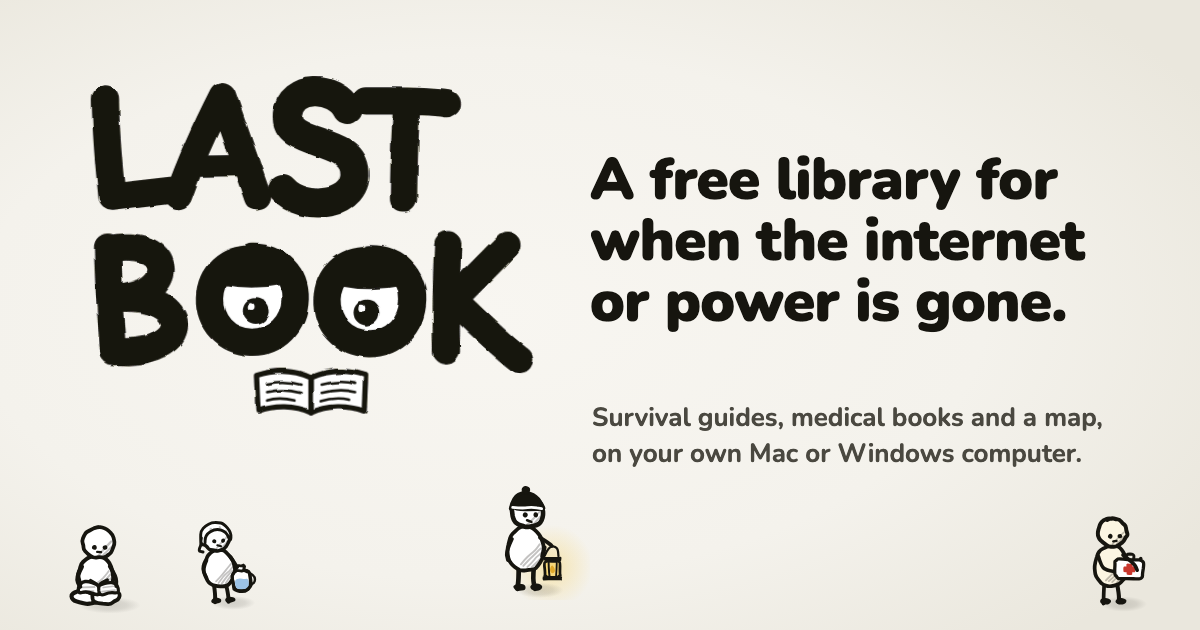
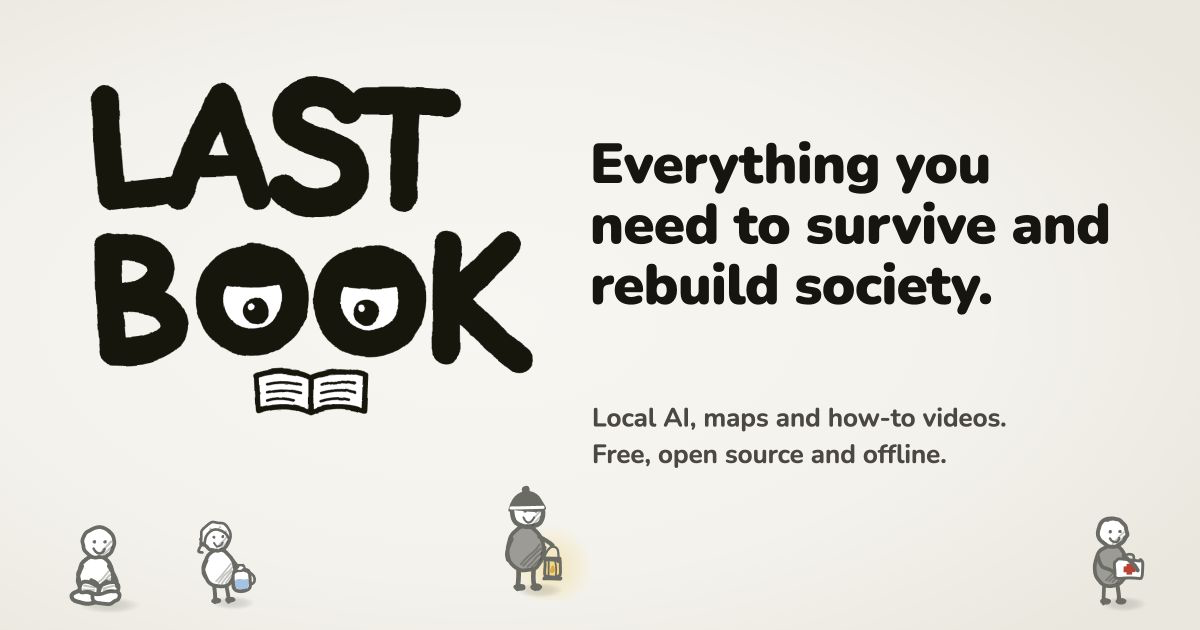
Update Lastbook share preview to the survival and rebuilding headline

diff --git a/website-next/index.html b/website-next/index.html
@@ -3,8 +3,8 @@
 <head>
 <meta charset="utf-8">
 <meta name="viewport" content="width=device-width, initial-scale=1">
-<title>Lastbook: a free survival library that works with no internet</title>
-<meta name="description" content="Survival and repair guides, medical books, encyclopedias, how-to videos and a map, on your own Mac, Windows or Linux computer. Free. Never uses the internet.">
+<title>Lastbook — Everything you need to survive and rebuild society.</title>
+<meta name="description" content="Free, open-source survival library with local AI, maps and how-to videos. Works offline after setup on Mac, Windows and Linux.">
 <meta name="color-scheme" content="light">
 <meta name="theme-color" content="#F4F2EC">
 <link rel="canonical" href="https://lastbook.org/">
@@ -14,14 +14,18 @@
 <link rel="manifest" href="/site.webmanifest">
 <meta property="og:type" content="website">
 <meta property="og:site_name" content="Lastbook">
-<meta property="og:title" content="Lastbook: a free survival library that works with no internet">
-<meta property="og:description" content="Survival and repair guides, medical books, encyclopedias, how-to videos and a map, on your own Mac, Windows or Linux computer. Free. Never uses the internet.">
+<meta property="og:title" content="Lastbook — Everything you need to survive and rebuild society.">
+<meta property="og:description" content="Free, open-source survival library with local AI, maps and how-to videos. Works offline after setup on Mac, Windows and Linux.">
 <meta property="og:url" content="https://lastbook.org/">
-<meta property="og:image" content="https://lastbook.org/og.png">
+<meta property="og:image" content="https://lastbook.org/og-survive-rebuild-v2.png">
 <meta property="og:image:width" content="1200">
 <meta property="og:image:height" content="630">
-<meta property="og:image:alt" content="Lastbook: a free library for when the internet or power is gone. A hand-drawn wordmark whose two O’s are eyes reading an open book, with small ink people around it.">
+<meta property="og:image:alt" content="Lastbook — Everything you need to survive and rebuild society. Local AI, maps and how-to videos. Free, open source and offline.">
 <meta name="twitter:card" content="summary_large_image">
+<meta name="twitter:title" content="Lastbook — Everything you need to survive and rebuild society.">
+<meta name="twitter:description" content="Free, open-source survival library with local AI, maps and how-to videos. Works offline after setup on Mac, Windows and Linux.">
+<meta name="twitter:image" content="https://lastbook.org/og-survive-rebuild-v2.png">
+<meta name="twitter:image:alt" content="Lastbook — Everything you need to survive and rebuild society.">
 <link rel="preload" href="/fonts/Nunito-Variable.woff2" as="font" type="font/woff2" crossorigin>
 <link rel="stylesheet" href="/style.css?v=fb73900236">
 <script src="/os.js?v=940e747a6e"></script>

diff --git a/website-next/library/index.html b/website-next/library/index.html
@@ -17,11 +17,15 @@
 <meta property="og:title" content="What’s in the library · Lastbook">
 <meta property="og:description" content="Compare the Small, Medium and All offline libraries, including documents, videos, encyclopedias and maps.">
 <meta property="og:url" content="https://lastbook.org/library/">
-<meta property="og:image" content="https://lastbook.org/og.png">
+<meta property="og:image" content="https://lastbook.org/og-survive-rebuild-v2.png">
 <meta property="og:image:width" content="1200">
 <meta property="og:image:height" content="630">
-<meta property="og:image:alt" content="Lastbook: a free library for when the internet or power is gone. A hand-drawn wordmark whose two O’s are eyes reading an open book, with small ink people around it.">
+<meta property="og:image:alt" content="Lastbook — Everything you need to survive and rebuild society. Local AI, maps and how-to videos. Free, open source and offline.">
 <meta name="twitter:card" content="summary_large_image">
+<meta name="twitter:title" content="What’s in the library · Lastbook">
+<meta name="twitter:description" content="Compare the Small, Medium and All offline libraries, including documents, videos, encyclopedias and maps.">
+<meta name="twitter:image" content="https://lastbook.org/og-survive-rebuild-v2.png">
+<meta name="twitter:image:alt" content="Lastbook — Everything you need to survive and rebuild society.">
 <link rel="preload" href="/fonts/Nunito-Variable.woff2" as="font" type="font/woff2" crossorigin>
 <link rel="stylesheet" href="/style.css?v=fb73900236">
 <script src="/os.js?v=940e747a6e"></script>

diff --git a/website-next/buying-guide/index.html b/website-next/buying-guide/index.html
@@ -17,11 +17,15 @@
 <meta property="og:title" content="Buying guide · Lastbook">
 <meta property="og:description" content="Specific gear for safe drinking water, bleeding control, backup power, weather alerts, shelter and sanitation.">
 <meta property="og:url" content="https://lastbook.org/buying-guide/">
-<meta property="og:image" content="https://lastbook.org/og.png">
+<meta property="og:image" content="https://lastbook.org/og-survive-rebuild-v2.png">
 <meta property="og:image:width" content="1200">
 <meta property="og:image:height" content="630">
-<meta property="og:image:alt" content="Lastbook: a free library for when the internet or power is gone. A hand-drawn wordmark whose two O’s are eyes reading an open book, with small ink people around it.">
+<meta property="og:image:alt" content="Lastbook — Everything you need to survive and rebuild society. Local AI, maps and how-to videos. Free, open source and offline.">
 <meta name="twitter:card" content="summary_large_image">
+<meta name="twitter:title" content="Buying guide · Lastbook">
+<meta name="twitter:description" content="Specific gear for safe drinking water, bleeding control, backup power, weather alerts, shelter and sanitation.">
+<meta name="twitter:image" content="https://lastbook.org/og-survive-rebuild-v2.png">
+<meta name="twitter:image:alt" content="Lastbook — Everything you need to survive and rebuild society.">
 <link rel="preload" href="/fonts/Nunito-Variable.woff2" as="font" type="font/woff2" crossorigin>
 <link rel="stylesheet" href="/style.css?v=d5c5a3e922">
 <script src="/os.js?v=ed9c84c1da">

diff --git a/website-next/download/index.html b/website-next/download/index.html
@@ -17,11 +17,15 @@
 <meta property="og:title" content="Download · Lastbook">
 <meta property="og:description" content="Download Lastbook for Mac, Windows or Linux. Setup downloads your library, local map and optional local AI.">
 <meta property="og:url" content="https://lastbook.org/download/">
-<meta property="og:image" content="https://lastbook.org/og.png">
+<meta property="og:image" content="https://lastbook.org/og-survive-rebuild-v2.png">
 <meta property="og:image:width" content="1200">
 <meta property="og:image:height" content="630">
-<meta property="og:image:alt" content="Lastbook: a free library for when the internet or power is gone. A hand-drawn wordmark whose two O’s are eyes reading an open book, with small ink people around it.">
+<meta property="og:image:alt" content="Lastbook — Everything you need to survive and rebuild society. Local AI, maps and how-to videos. Free, open source and offline.">
 <meta name="twitter:card" content="summary_large_image">
+<meta name="twitter:title" content="Download · Lastbook">
+<meta name="twitter:description" content="Download Lastbook for Mac, Windows or Linux. Setup downloads your library, local map and optional local AI.">
+<meta name="twitter:image" content="https://lastbook.org/og-survive-rebuild-v2.png">
+<meta name="twitter:image:alt" content="Lastbook — Everything you need to survive and rebuild society.">
 <link rel="preload" href="/fonts/Nunito-Variable.woff2" as="font" type="font/woff2" crossorigin>
 <link rel="stylesheet" href="/style.css?v=fb73900236">
 <script src="/os.js?v=940e747a6e"></script>

diff --git a/website-next/privacy/index.html b/website-next/privacy/index.html
@@ -17,11 +17,15 @@
 <meta property="og:title" content="Privacy and trust · Lastbook">
 <meta property="og:description" content="Lastbook works offline after setup. Learn about local data, downloads and app signing.">
 <meta property="og:url" content="https://lastbook.org/privacy/">
-<meta property="og:image" content="https://lastbook.org/og.png">
+<meta property="og:image" content="https://lastbook.org/og-survive-rebuild-v2.png">
 <meta property="og:image:width" content="1200">
 <meta property="og:image:height" content="630">
-<meta property="og:image:alt" content="Lastbook: a free library for when the internet or power is gone. A hand-drawn wordmark whose two O’s are eyes reading an open book, with small ink people around it.">
+<meta property="og:image:alt" content="Lastbook — Everything you need to survive and rebuild society. Local AI, maps and how-to videos. Free, open source and offline.">
 <meta name="twitter:card" content="summary_large_image">
+<meta name="twitter:title" content="Privacy and trust · Lastbook">
+<meta name="twitter:description" content="Lastbook works offline after setup. Learn about local data, downloads and app signing.">
+<meta name="twitter:image" content="https://lastbook.org/og-survive-rebuild-v2.png">
+<meta name="twitter:image:alt" content="Lastbook — Everything you need to survive and rebuild society.">
 <link rel="preload" href="/fonts/Nunito-Variable.woff2" as="font" type="font/woff2" crossorigin>
 <link rel="stylesheet" href="/style.css?v=fb73900236">
 <script src="/os.js?v=940e747a6e"></script>

diff --git a/website-next/credits/index.html b/website-next/credits/index.html
@@ -17,11 +17,15 @@
 <meta property="og:title" content="Credits · Lastbook">
 <meta property="og:description" content="Who made the work in the Lastbook library.">
 <meta property="og:url" content="https://lastbook.org/credits/">
-<meta property="og:image" content="https://lastbook.org/og.png">
+<meta property="og:image" content="https://lastbook.org/og-survive-rebuild-v2.png">
 <meta property="og:image:width" content="1200">
 <meta property="og:image:height" content="630">
-<meta property="og:image:alt" content="Lastbook: a free library for when the internet or power is gone. A hand-drawn wordmark whose two O’s are eyes reading an open book, with small ink people around it.">
+<meta property="og:image:alt" content="Lastbook — Everything you need to survive and rebuild society. Local AI, maps and how-to videos. Free, open source and offline.">
 <meta name="twitter:card" content="summary_large_image">
+<meta name="twitter:title" content="Credits · Lastbook">
+<meta name="twitter:description" content="Who made the work in the Lastbook library.">
+<meta name="twitter:image" content="https://lastbook.org/og-survive-rebuild-v2.png">
+<meta name="twitter:image:alt" content="Lastbook — Everything you need to survive and rebuild society.">
 <link rel="preload" href="/fonts/Nunito-Variable.woff2" as="font" type="font/woff2" crossorigin>
 <link rel="stylesheet" href="/style.css?v=fb73900236">
 <script src="/os.js?v=940e747a6e"></script>

diff --git a/website-next/tools/art/og.html b/website-next/tools/art/og.html
@@ -2,7 +2,7 @@
 @font-face{font-family:N;src:url(/fonts/Nunito-Variable.woff2);font-weight:400 1000}
 html,body{margin:0;width:1200px;height:630px;overflow:hidden;background:radial-gradient(ellipse 70% 70% at 40% 50%,#F8F6F1,#F4F2EC 60%,#EAE7DD)}
 .wm{position:absolute;left:70px;top:70px;width:470px} .wm svg{width:100%;height:auto;display:block;overflow:visible}
-h1{position:absolute;left:590px;top:150px;width:540px;margin:0;font:900 58px/1.05 N;color:#16150F;letter-spacing:-.01em}
+h1{position:absolute;left:590px;top:135px;width:540px;margin:0;font:900 56px/1.08 N;color:#16150F;letter-spacing:-.01em}
 p{position:absolute;left:592px;top:400px;width:520px;margin:0;font:700 26px/1.4 N;color:#4A4840}
 img{position:absolute}
 </style><div class="wm"><svg class="wm-svg" viewBox="0 0 620 470" aria-hidden="true" focusable="false">
@@ -37,8 +37,8 @@ img{position:absolute}
 </g>
 </g>
 </svg>
-</div><h1>A free library for when the internet or power is gone.</h1>
-<p>Survival guides, medical books and a map, on your own Mac or Windows computer.</p>
+</div><h1>Everything you need to survive and rebuild society.</h1>
+<p>Local AI, maps and how-to videos.<br>Free, open source and offline.</p>
 <img src="/img/ink/fig-reader.svg" style="left:40px;top:470px;width:120px">
 <img src="/img/ink/fig-lantern.svg" style="left:470px;top:455px;width:120px">
 <img src="/img/ink/fig-aid.svg" style="left:1060px;top:480px;width:110px">

diff --git a/website-next/404.html b/website-next/404.html
@@ -16,11 +16,15 @@
 <meta property="og:site_name" content="Lastbook">
 <meta property="og:title" content="Page not found · Lastbook">
 <meta property="og:description" content="This page isn’t here.">
-<meta property="og:image" content="https://lastbook.org/og.png">
+<meta property="og:image" content="https://lastbook.org/og-survive-rebuild-v2.png">
 <meta property="og:image:width" content="1200">
 <meta property="og:image:height" content="630">
-<meta property="og:image:alt" content="Lastbook: a free library for when the internet or power is gone. A hand-drawn wordmark whose two O’s are eyes reading an open book, with small ink people around it.">
+<meta property="og:image:alt" content="Lastbook — Everything you need to survive and rebuild society. Local AI, maps and how-to videos. Free, open source and offline.">
 <meta name="twitter:card" content="summary_large_image">
+<meta name="twitter:title" content="Page not found · Lastbook">
+<meta name="twitter:description" content="This page isn’t here.">
+<meta name="twitter:image" content="https://lastbook.org/og-survive-rebuild-v2.png">
+<meta name="twitter:image:alt" content="Lastbook — Everything you need to survive and rebuild society.">
 <link rel="preload" href="/fonts/Nunito-Variable.woff2" as="font" type="font/woff2" crossorigin>
 <link rel="stylesheet" href="/style.css?v=fb73900236">
 <script src="/os.js?v=940e747a6e"></script>

diff --git a/website-next/tools/build.py b/website-next/tools/build.py
@@ -66,11 +66,15 @@ def head(title, desc, path, extra="", index=True):
 <meta property="og:site_name" content="Lastbook">
 <meta property="og:title" content="{full}">
 <meta property="og:description" content="{desc}">
-{ogurl}<meta property="og:image" content="{SITE}/og.png">
+{ogurl}<meta property="og:image" content="{SITE}/og-survive-rebuild-v2.png">
 <meta property="og:image:width" content="1200">
 <meta property="og:image:height" content="630">
-<meta property="og:image:alt" content="Lastbook: a free library for when the internet or power is gone. A hand-drawn wordmark whose two O’s are eyes reading an open book, with small ink people around it.">
+<meta property="og:image:alt" content="Lastbook — Everything you need to survive and rebuild society. Local AI, maps and how-to videos. Free, open source and offline.">
 <meta name="twitter:card" content="summary_large_image">
+<meta name="twitter:title" content="{full}">
+<meta name="twitter:description" content="{desc}">
+<meta name="twitter:image" content="{SITE}/og-survive-rebuild-v2.png">
+<meta name="twitter:image:alt" content="Lastbook — Everything you need to survive and rebuild society.">
 <link rel="preload" href="{FONT}" as="font" type="font/woff2" crossorigin>
 <link rel="stylesheet" href="{CSS}">
 <script src="{JS}"></script>{extra}
@@ -194,8 +198,8 @@ GRAIN = ('<svg class="grain" aria-hidden="true" focusable="false"><filter id="gr
 
 
 def home():
-    return head("Lastbook: a free survival library that works with no internet",
-                "Survival and repair guides, medical books, encyclopedias, how-to videos and a map, on your own Mac, Windows or Linux computer. Free. Never uses the internet.",
+    return head("Lastbook — Everything you need to survive and rebuild society.",
+                "Free, open-source survival library with local AI, maps and how-to videos. Works offline after setup on Mac, Windows and Linux.",
                 "/", extra=f'\n<script src="{CROWD}" defer></script>') + bar("/", over=True) + f"""
 <main id="main">
 
